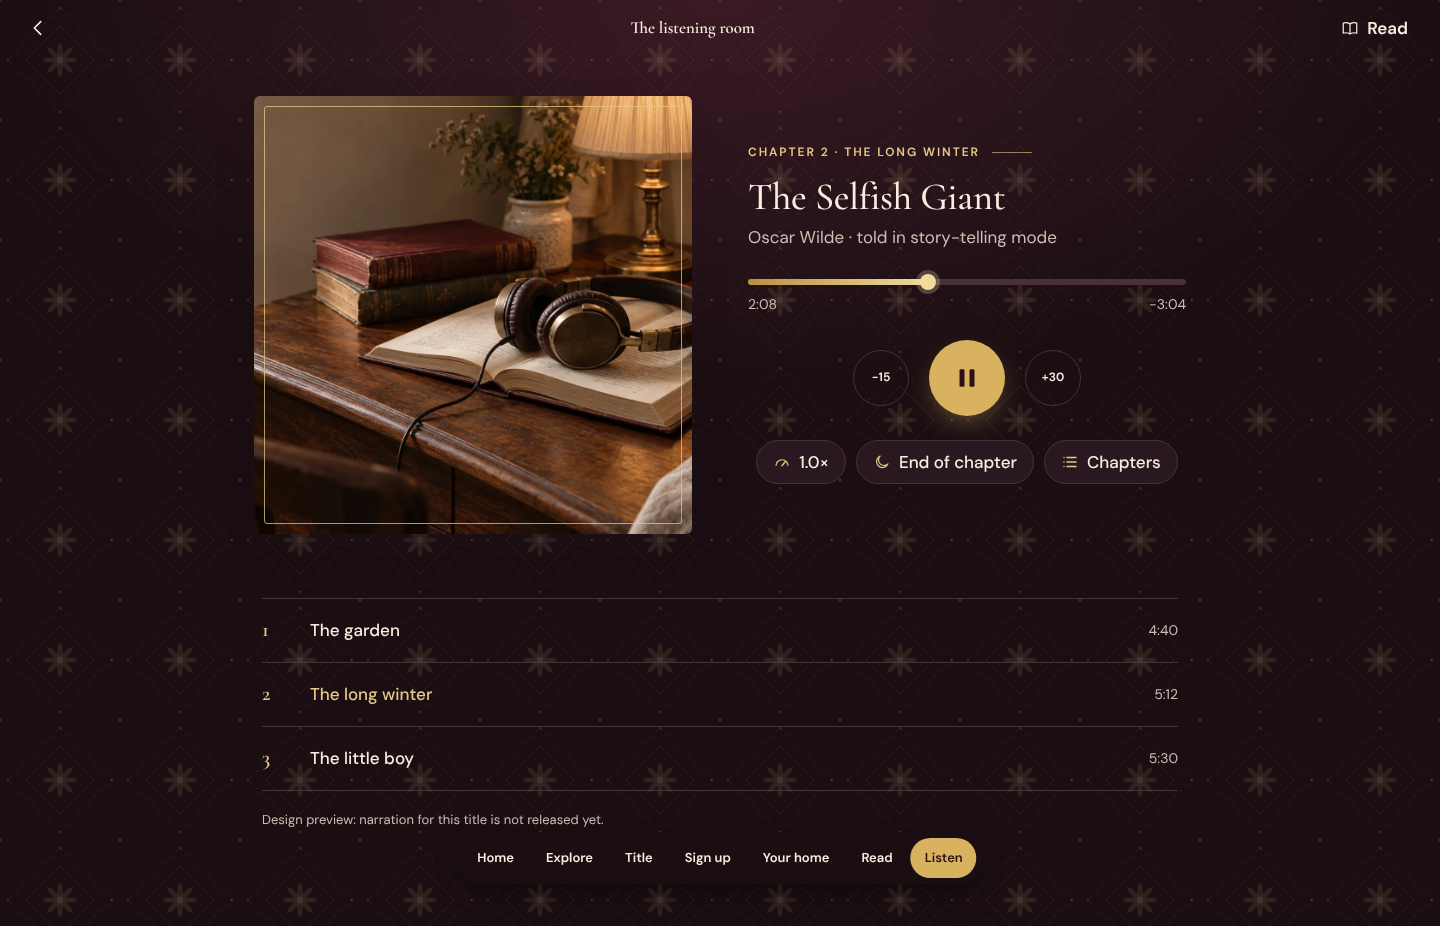
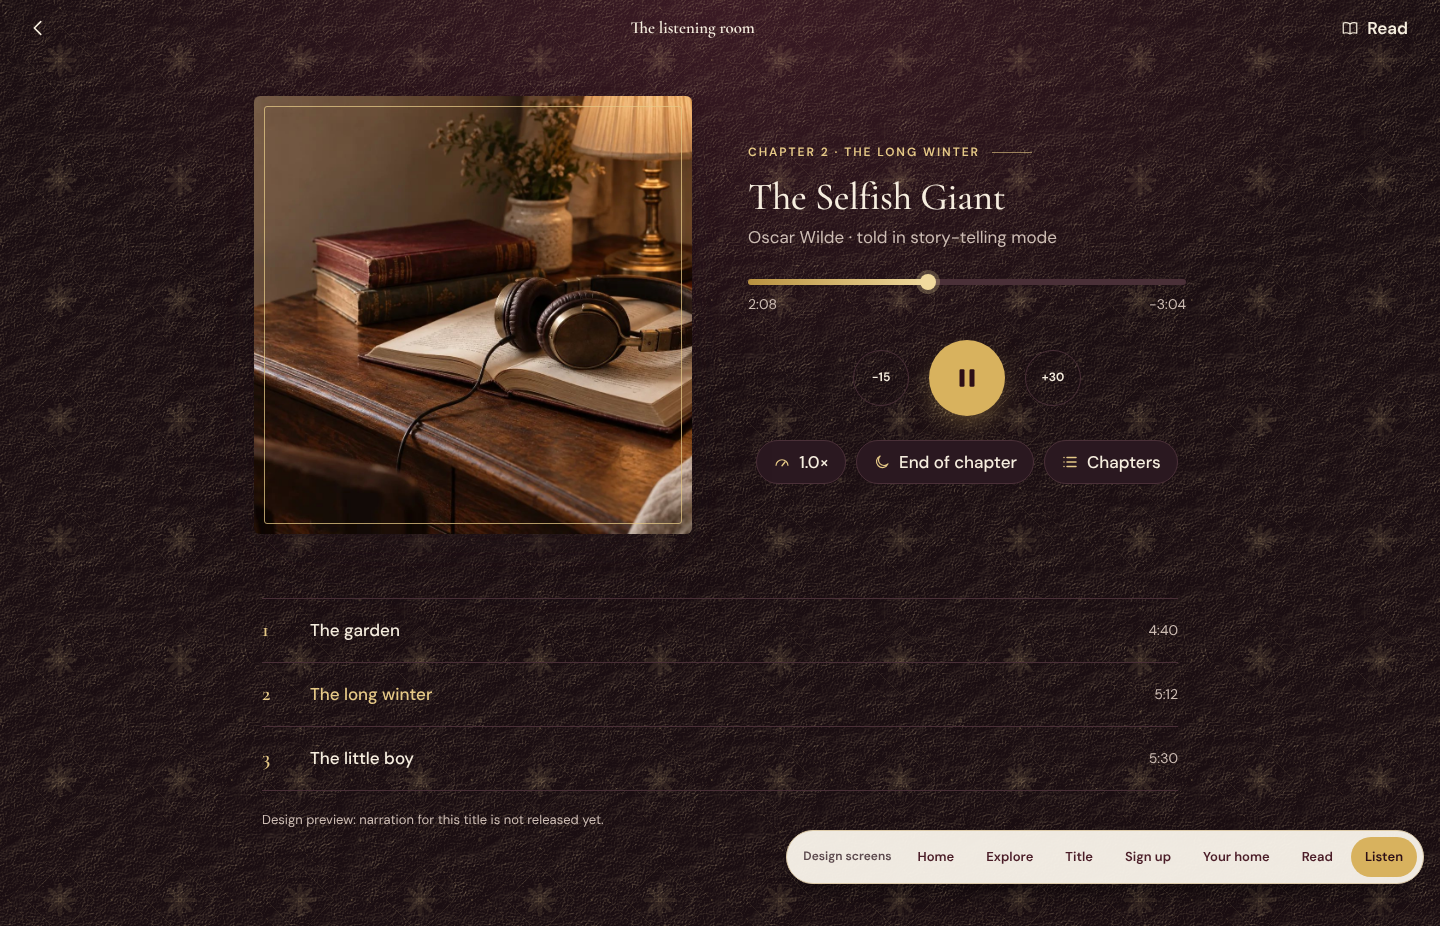
Final design: handmade-paper base, 3D paper cards and pill menu
Embossed handmade-paper texture under every surface (rasterized tile),
layered paper shadows and hover lift on cards, stacked-page covers, and
the main navigation as a dark capsule with a gold active pill on desktop
and phone (bottom tab bar retired). Hero illustration unchanged.

Claude-Session: https://claude.ai/code/session_018Zyit9apD5NEqK4Low8btd

diff --git a/docs/design/final/index.html b/docs/design/final/index.html
@@ -355,25 +355,58 @@ mark.hl{background:rgba(216,178,94,.38);color:inherit;padding:0 .1em;border-radi
 @media (max-width:900px){.review{top:92px;bottom:auto}}
 
 /* ---------- alpana / kantha texture, applied on every screen ---------- */
-body{background:url(art/alpana-tile.svg),var(--ivory)}
-.hero{background:radial-gradient(70% 90% at 100% 0%,rgba(243,232,212,.92) 0%,transparent 60%),url(art/alpana-tile.svg),var(--ivory);overflow:hidden}
+body{background:url(art/alpana-tile.svg),url(art/handmade-paper.png),var(--ivory)}
+.hero{background:radial-gradient(70% 90% at 100% 0%,rgba(243,232,212,.92) 0%,transparent 60%),url(art/alpana-tile.svg),url(art/handmade-paper.png),var(--ivory);overflow:hidden}
 .hero::before{content:"";position:absolute;width:620px;height:620px;left:-260px;bottom:-260px;background:url(art/alpana-halo.svg) center/contain no-repeat;opacity:.16;pointer-events:none}
 .hero .wrap{position:relative;z-index:1}
-.parchment{background:url(art/alpana-tile.svg),var(--parchment)}
-.dark{background:url(art/alpana-tile-dark.svg),linear-gradient(160deg,var(--burgundy) 0%,var(--burgundy-deep) 100%);overflow:hidden}
+.parchment{background:url(art/alpana-tile.svg),url(art/handmade-paper.png),var(--parchment)}
+.dark{background:url(art/alpana-tile-dark.svg),url(art/handmade-paper.png),linear-gradient(160deg,var(--burgundy) 0%,var(--burgundy-deep) 100%);overflow:hidden}
 .dark::before{content:"";position:absolute;width:680px;height:680px;right:-240px;top:-240px;background:url(art/alpana-halo.svg) center/contain no-repeat;opacity:.22;pointer-events:none}
 .dark .wrap{position:relative;z-index:1}
-.member-hero{background:radial-gradient(60% 80% at 0% 0%,rgba(243,232,212,.92),transparent 70%),url(art/alpana-tile.svg),var(--ivory)}
-.title-hero{background:url(art/alpana-tile.svg),linear-gradient(180deg,var(--parchment),var(--ivory))}
-.page-head{background:url(art/alpana-tile.svg),var(--parchment)}
-.continue .left{background:url(art/alpana-tile-dark.svg),linear-gradient(160deg,var(--burgundy),var(--burgundy-deep))}
-.night{background:url(art/alpana-tile-dark.svg),radial-gradient(70% 60% at 50% 0%,#3A1A24,var(--night) 70%)}
-footer.site{background:url(art/alpana-tile-dark.svg),var(--night)}
-.reader{background-image:url(art/alpana-tile.svg)}
-.reader[data-theme=ink]{background-image:url(art/alpana-tile-dark.svg)}
+.member-hero{background:radial-gradient(60% 80% at 0% 0%,rgba(243,232,212,.92),transparent 70%),url(art/alpana-tile.svg),url(art/handmade-paper.png),var(--ivory)}
+.title-hero{background:url(art/alpana-tile.svg),url(art/handmade-paper.png),linear-gradient(180deg,var(--parchment),var(--ivory))}
+.page-head{background:url(art/alpana-tile.svg),url(art/handmade-paper.png),var(--parchment)}
+.continue .left{background:url(art/alpana-tile-dark.svg),url(art/handmade-paper.png),linear-gradient(160deg,var(--burgundy),var(--burgundy-deep))}
+.night{background:url(art/alpana-tile-dark.svg),url(art/handmade-paper.png),radial-gradient(70% 60% at 50% 0%,#3A1A24,var(--night) 70%)}
+footer.site{background:url(art/alpana-tile-dark.svg),url(art/handmade-paper.png),var(--night)}
+.reader{background-image:url(art/alpana-tile.svg),url(art/handmade-paper.png)}
+.reader[data-theme=ink]{background-image:url(art/alpana-tile-dark.svg),url(art/handmade-paper.png)}
 .rtext{background:var(--rbg);margin-top:32px;margin-bottom:32px;border:1px solid var(--rline);border-radius:4px;box-shadow:0 20px 40px -30px rgba(36,22,26,.45)}
 .book,.way,.today,.facts,.coming{background-color:var(--ivory)}
 @media (max-width:640px){.rtext{margin:0;border:0;border-radius:0}}
+
+/* ---------- 3D paper cards ---------- */
+.way,.book,.today,.facts,.coming,.format,.panel,.consent{
+  background:url(art/handmade-paper.png),#FFFDF8;
+  border:1px solid rgba(184,145,63,.28);
+  box-shadow:inset 0 1px 0 rgba(255,255,255,.9),0 1px 2px rgba(36,22,26,.08),0 10px 20px -10px rgba(36,22,26,.28),0 28px 50px -28px rgba(36,22,26,.38);
+  transform:perspective(1000px) translateZ(0);transition:transform 260ms ease,box-shadow 260ms ease}
+.way:hover,.book:hover,.today:hover{transform:perspective(1000px) translateY(-6px) rotateX(2deg);
+  box-shadow:inset 0 1px 0 rgba(255,255,255,.9),0 2px 4px rgba(36,22,26,.1),0 18px 30px -12px rgba(36,22,26,.32),0 44px 70px -30px rgba(36,22,26,.45)}
+.continue,.frame,.gilt,.player .frame{box-shadow:0 2px 4px rgba(36,22,26,.12),0 18px 34px -14px rgba(36,22,26,.45),0 50px 80px -40px rgba(36,22,26,.55)}
+.cover{box-shadow:inset 6px 0 0 rgba(0,0,0,.18),inset -1px 0 0 rgba(255,255,255,.25),3px 4px 0 -1px #EDE2CC,6px 8px 0 -2px #E2D3B6,14px 18px 28px -14px rgba(36,22,26,.6)}
+.steps li{background:url(art/handmade-paper.png),#FFFDF8;border:1px solid rgba(184,145,63,.28);border-top:2px solid var(--gold-deep);padding:20px;border-radius:6px;box-shadow:inset 0 1px 0 #fff,0 10px 20px -10px rgba(36,22,26,.25),0 26px 46px -28px rgba(36,22,26,.32)}
+.rtext{background:url(art/handmade-paper.png),var(--rbg)}
+@media (prefers-reduced-motion:reduce){.way:hover,.book:hover,.today:hover{transform:none}}
+
+/* ---------- pill menu (dark capsule, gold active) ---------- */
+.nav{background:linear-gradient(180deg,#2A1820,#1A0E12);border-radius:999px;padding:5px;gap:2px;box-shadow:inset 0 1px 0 rgba(255,255,255,.08),0 10px 24px -12px rgba(26,14,18,.6)}
+.nav a{color:var(--night-ink);border-radius:999px;padding:0 18px;font-size:.9375rem;font-weight:600}
+.nav a::after{display:none!important}
+.nav a:hover{background:rgba(255,255,255,.08)}
+.nav a[aria-current=page]{background:linear-gradient(180deg,#E8C676,var(--gold));color:var(--burgundy-deep);box-shadow:inset 0 1px 0 rgba(255,255,255,.5),0 2px 6px rgba(0,0,0,.35)}
+.tabbar{display:none!important}
+@media (max-width:900px){
+  body{padding-bottom:0}
+  .top .wrap{flex-wrap:wrap;row-gap:10px;padding-bottom:12px}
+  .nav{display:flex;order:3;width:100%;overflow-x:auto;scrollbar-width:none}
+  .nav::-webkit-scrollbar{display:none}
+  .nav a{flex:1 1 auto;justify-content:center;padding:0 8px;font-size:.875rem}
+}
+.review{left:auto;right:16px;transform:none;background:rgba(251,246,236,.95);border:1px solid var(--line)}
+.review a{color:var(--burgundy)}
+.review::before{content:"Design screens";align-self:center;font-size:.75rem;font-weight:600;color:var(--ink-soft);padding:0 8px 0 10px;white-space:nowrap}
+@media (max-width:900px){.review{top:auto;bottom:12px;right:8px;left:8px}}
 </style>
 </head>
 <body>
